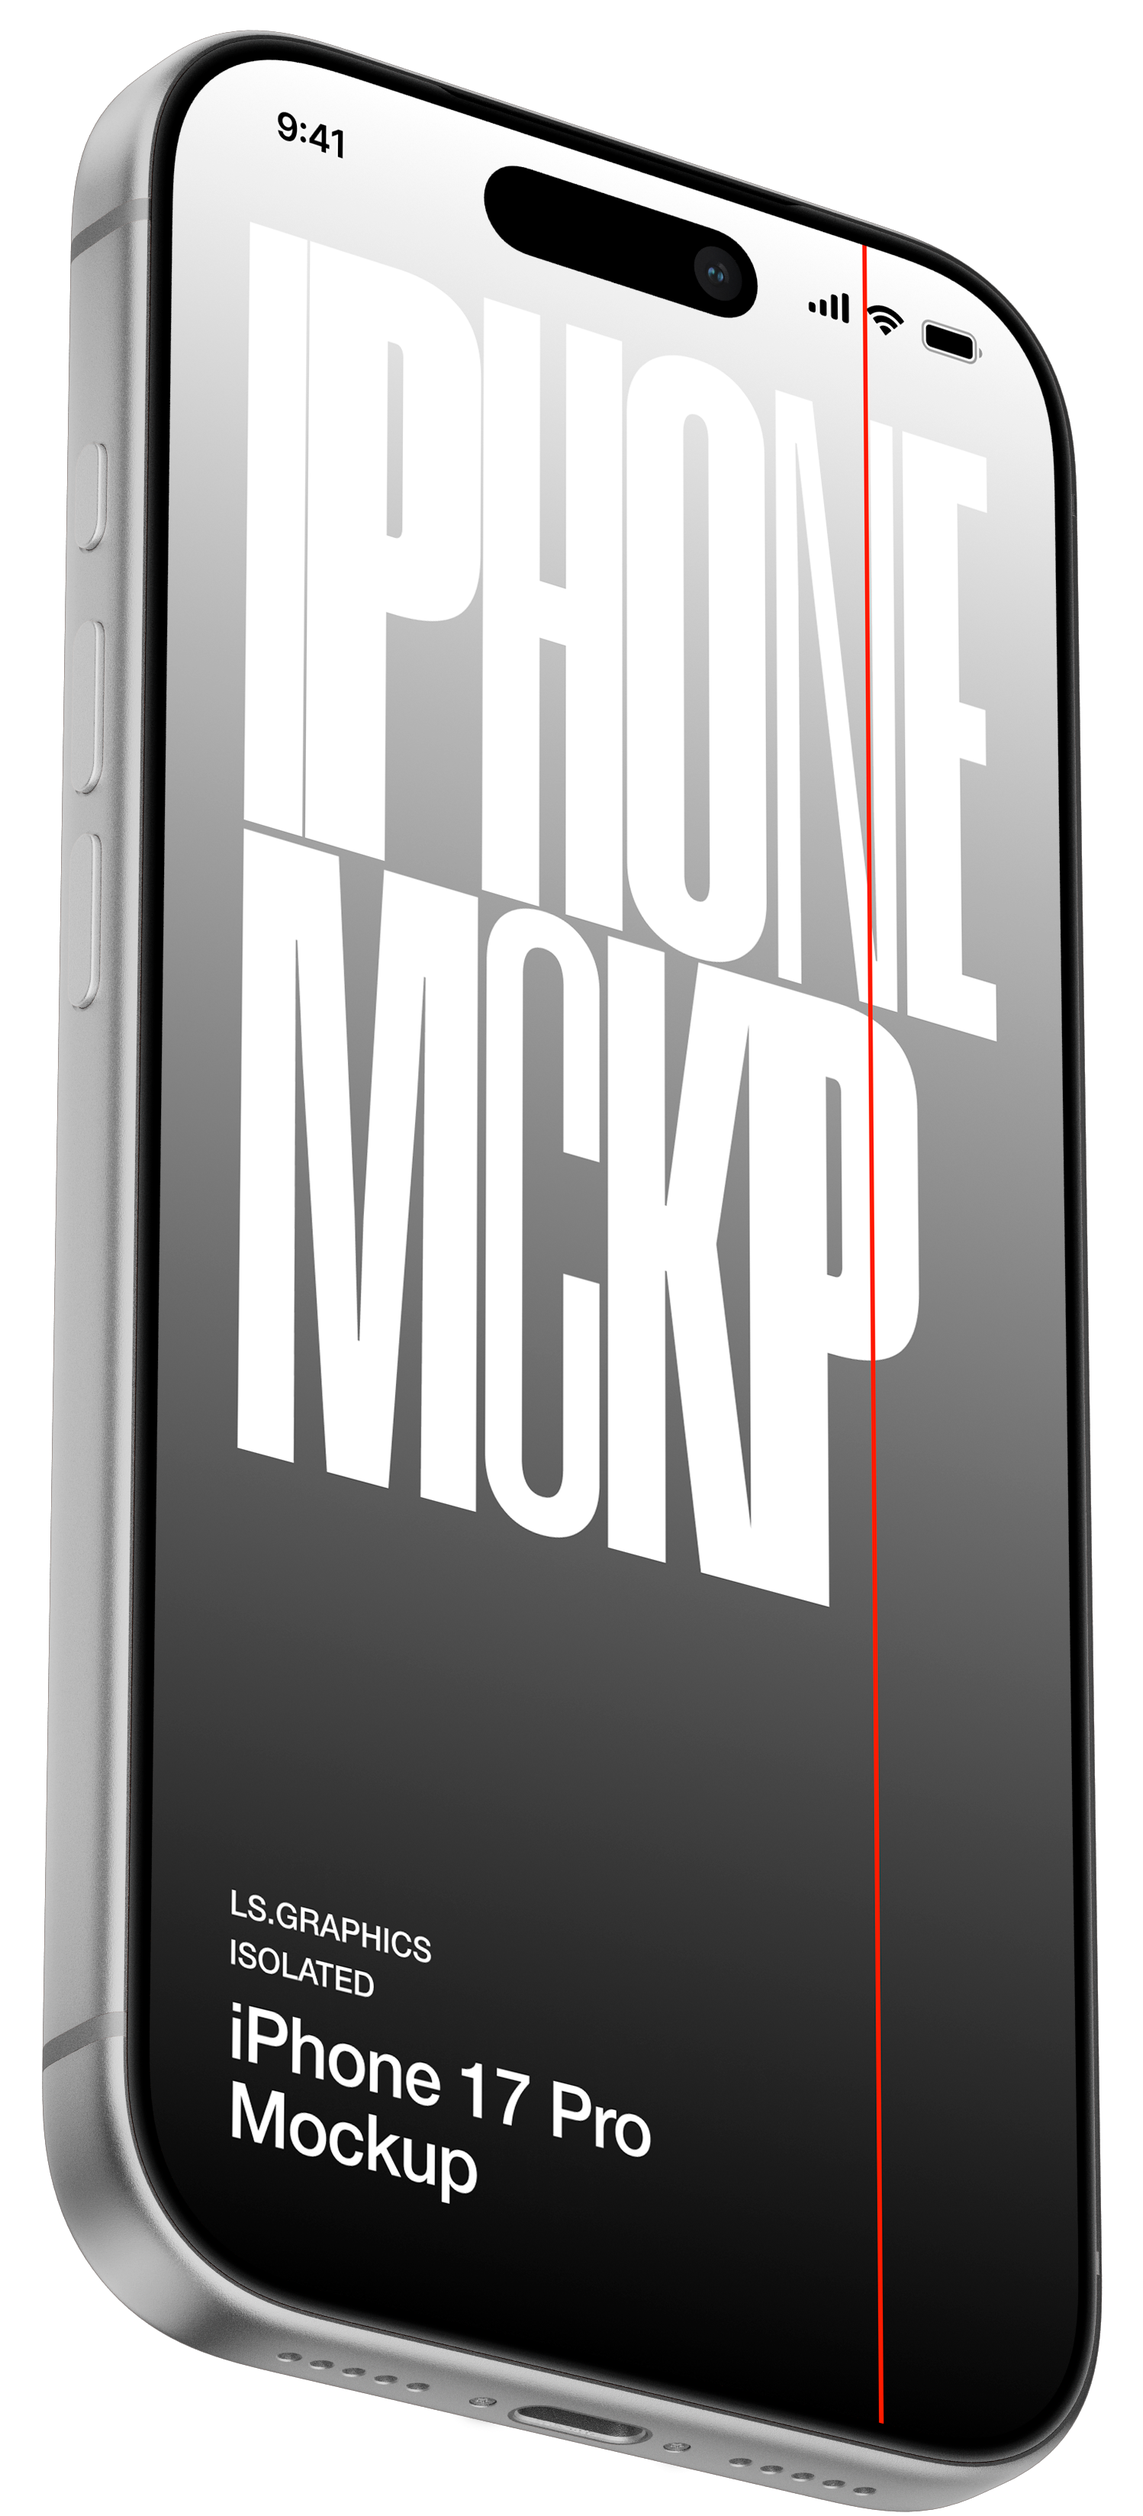
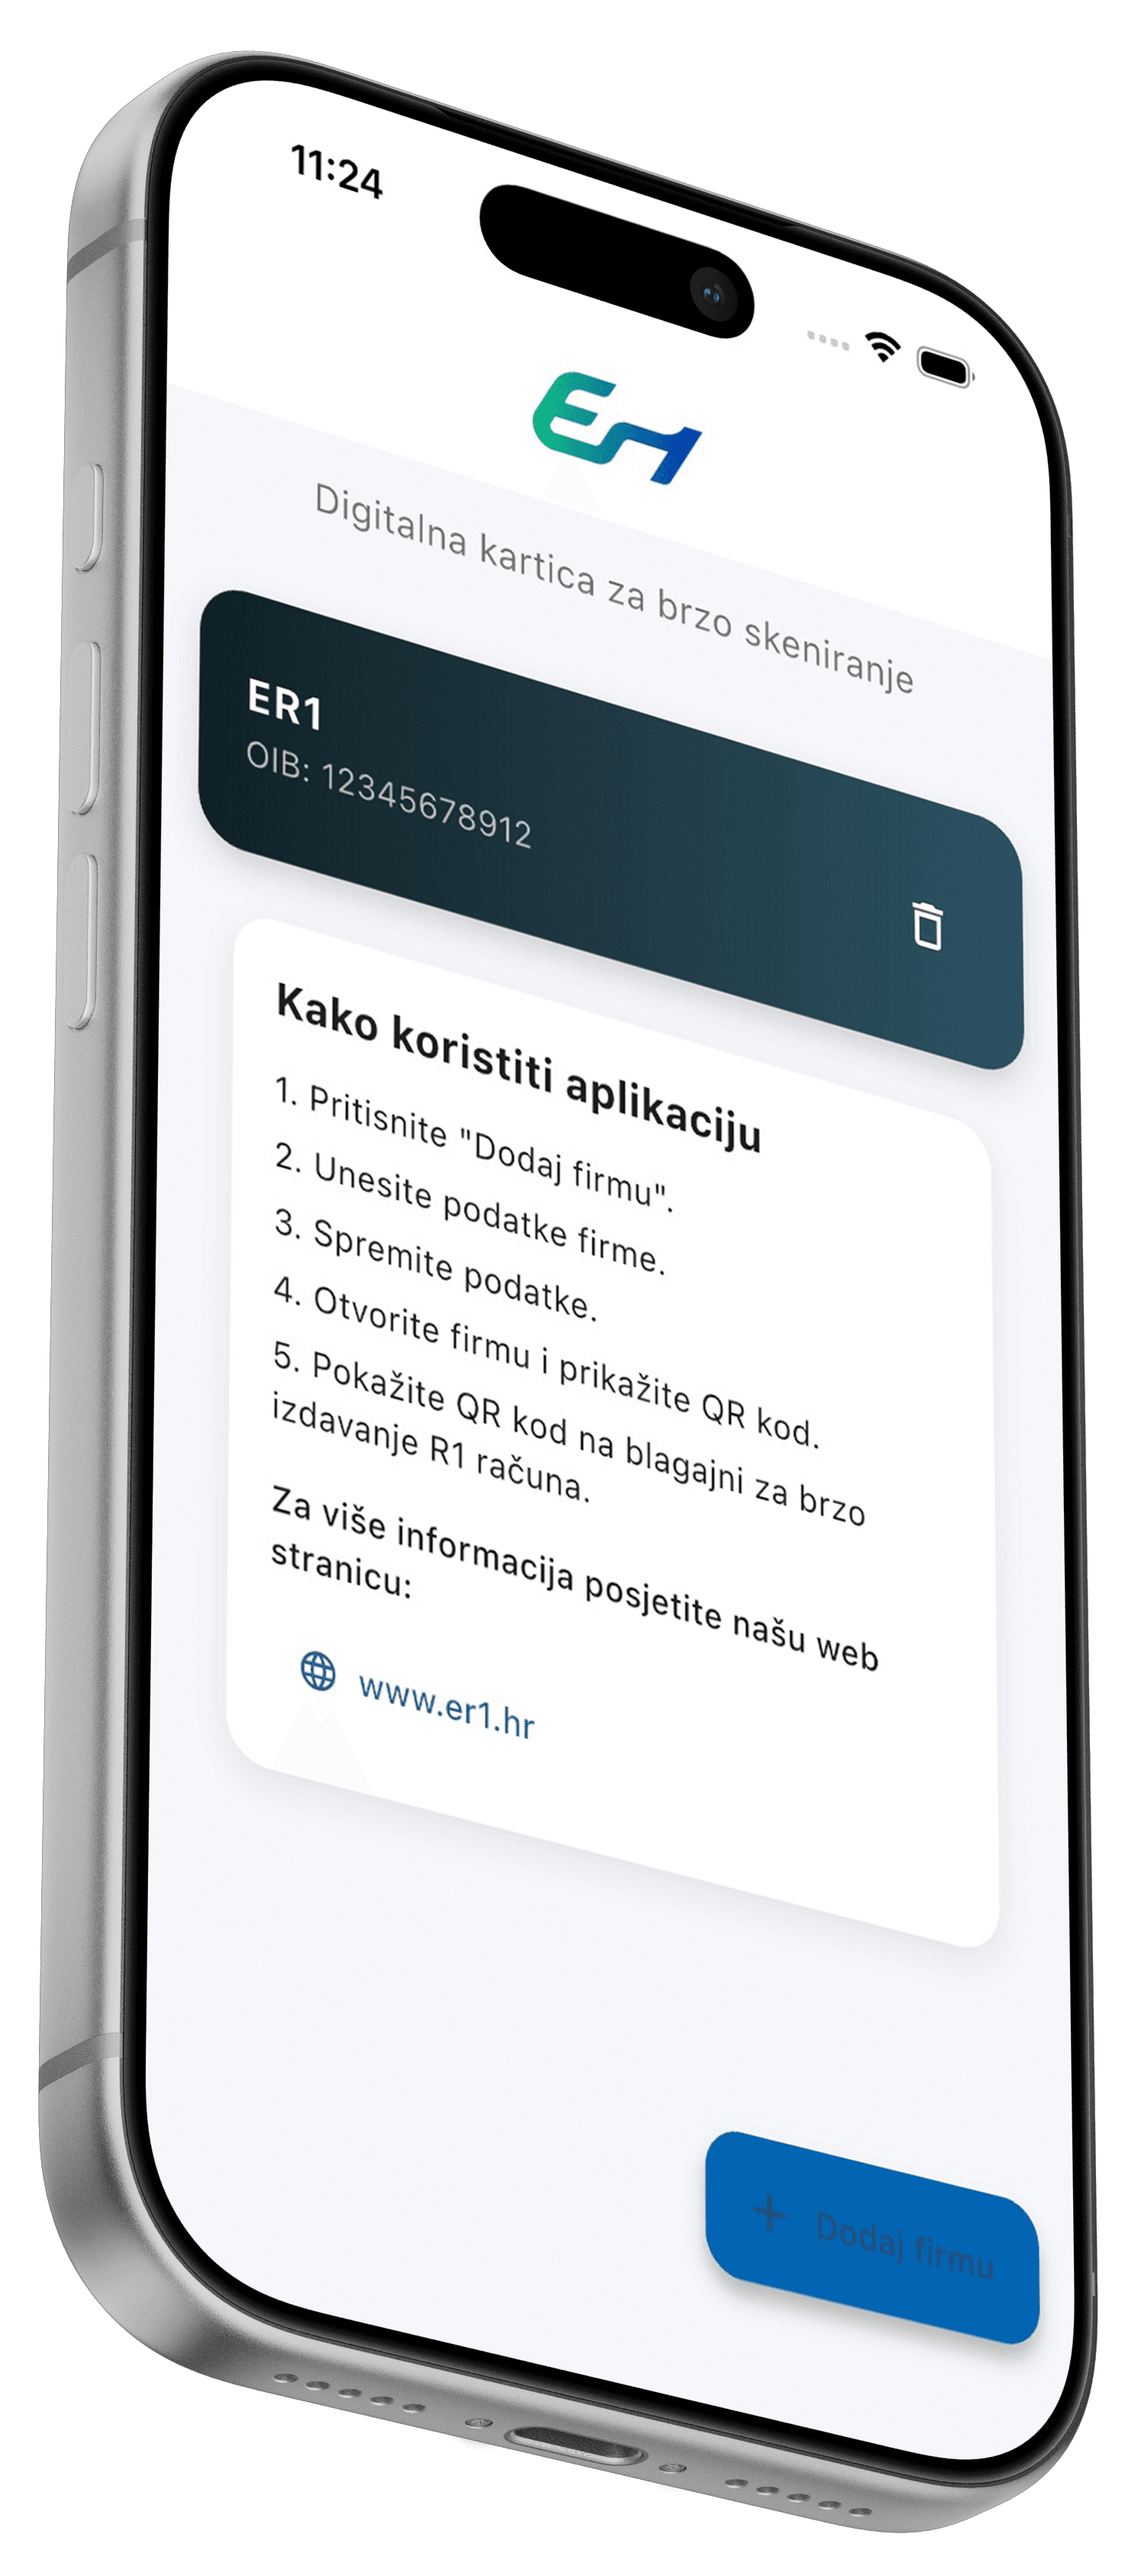
Update mockup images and optimize for web
- Replace mockup images with new screenshots
- Optimize all images (reduced from ~26MB to ~7MB)
- Fix step 4 image positioning to bottom of container

diff --git a/src/app/kako-funkcionira/page.tsx b/src/app/kako-funkcionira/page.tsx
@@ -202,13 +202,13 @@ export default function HowItWorksPage() {
                       index % 2 === 1 ? 'lg:order-1' : ''
                     }`}
                   >
-                    <div className="relative bg-brand-ice rounded-3xl p-8 lg:p-12">
+                    <div className={`relative bg-brand-ice rounded-3xl overflow-hidden ${step.number === 4 ? 'h-[400px]' : 'p-8 lg:p-12'}`}>
                       <Image
                         src={step.image}
                         alt={step.title}
-                        width={280}
-                        height={560}
-                        className="mx-auto drop-shadow-2xl"
+                        width={step.number === 4 ? 380 : 280}
+                        height={step.number === 4 ? 760 : 560}
+                        className={step.number === 4 ? 'absolute bottom-0 left-1/2 -translate-x-1/2 drop-shadow-2xl' : 'mx-auto drop-shadow-2xl'}
                       />
                     </div>
                   </div>
